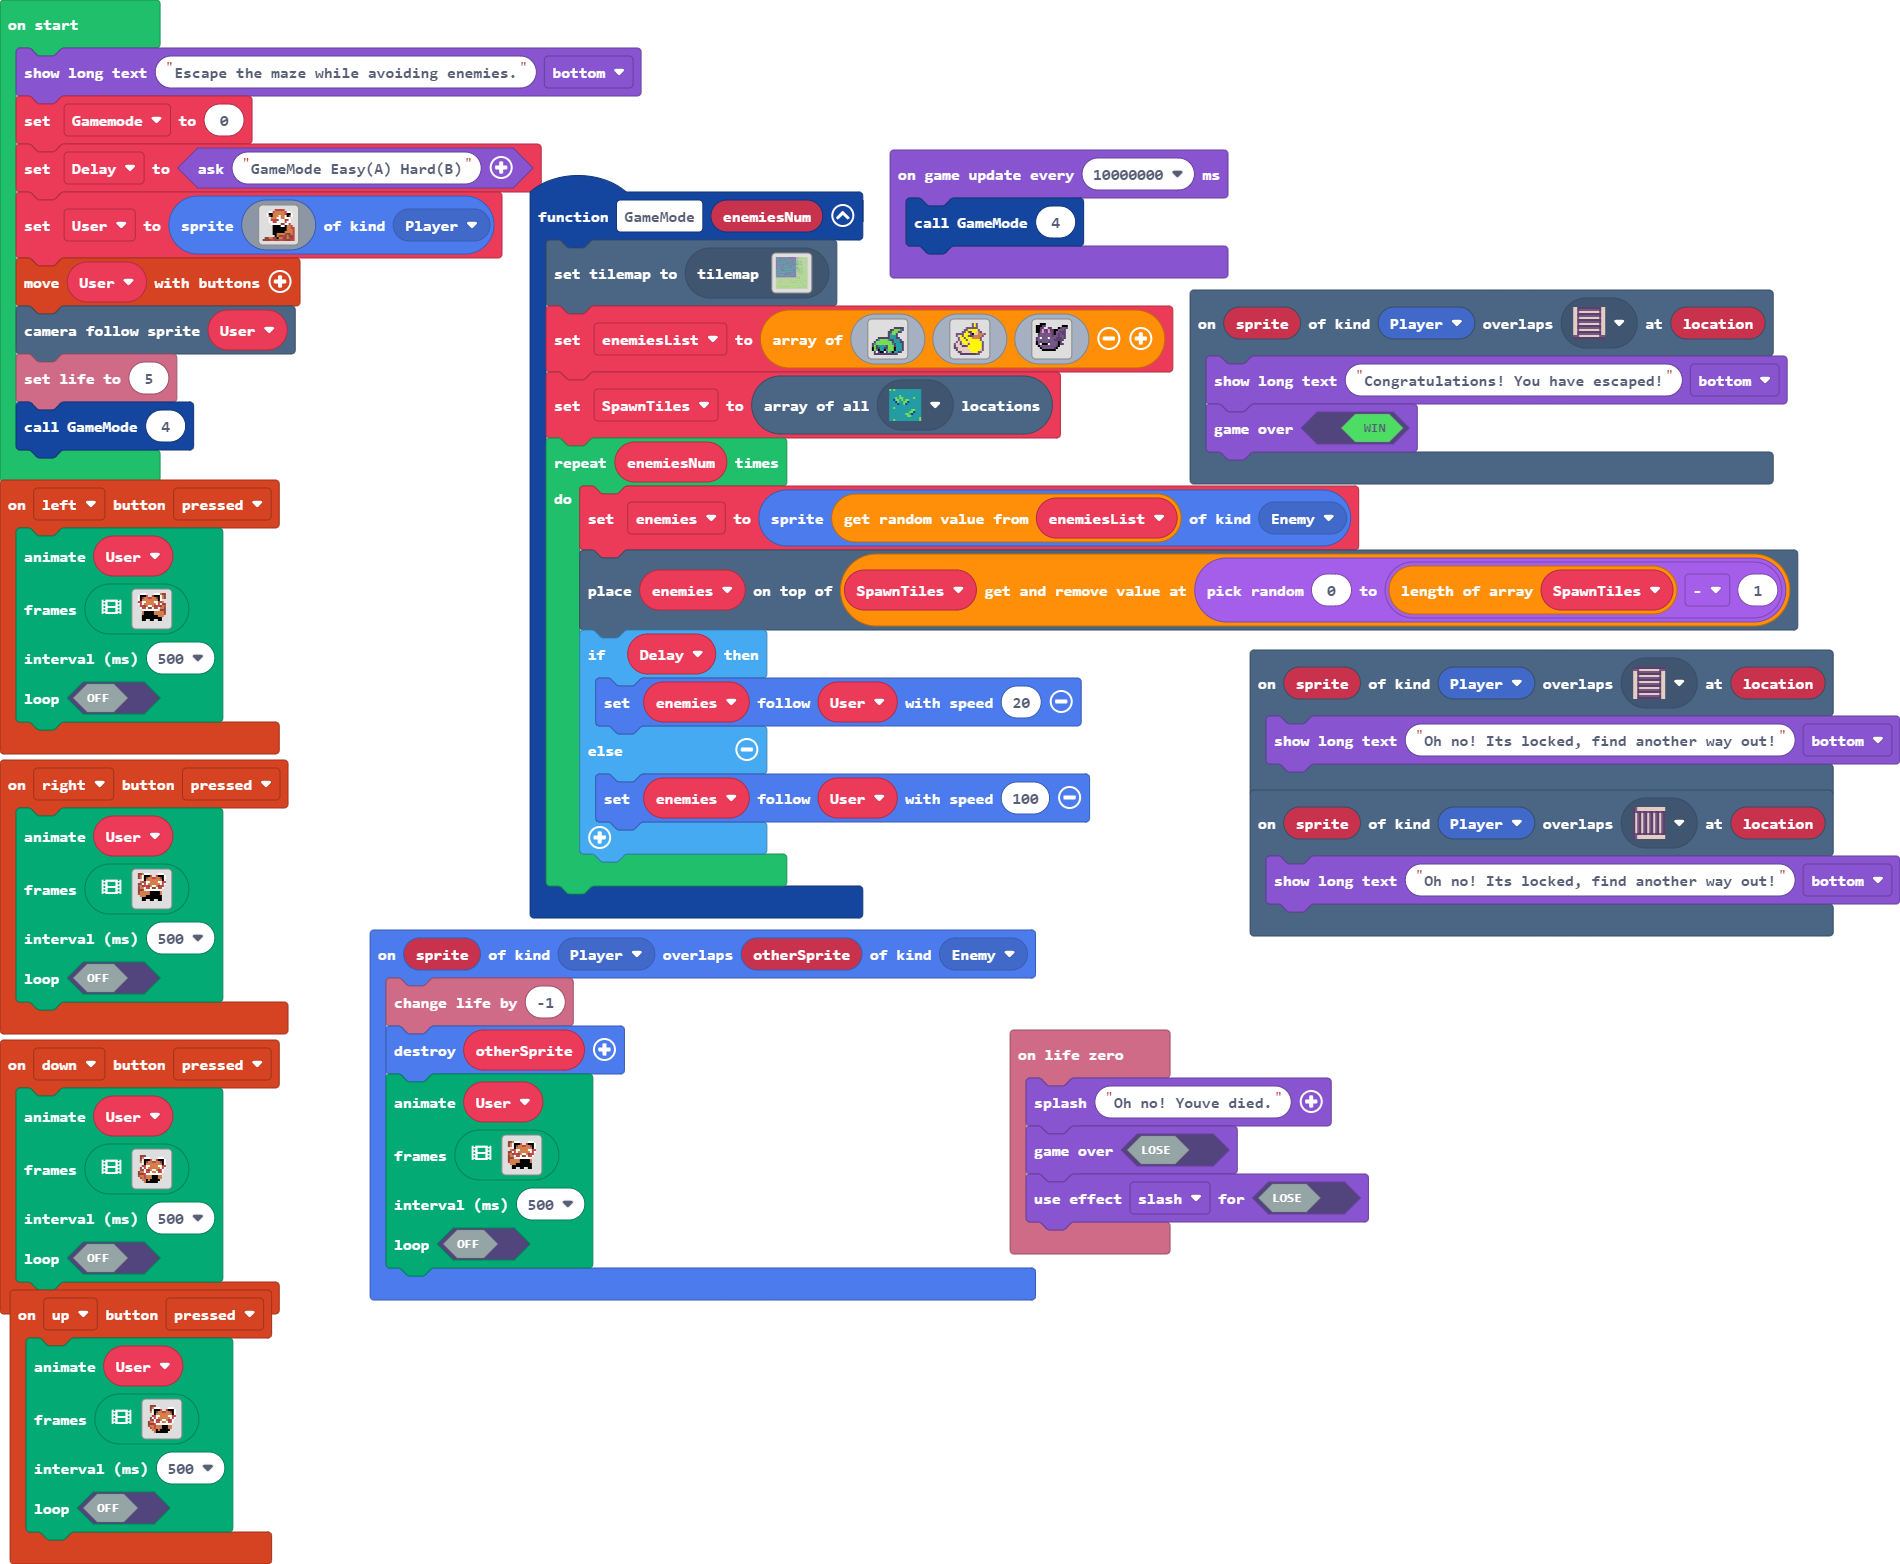
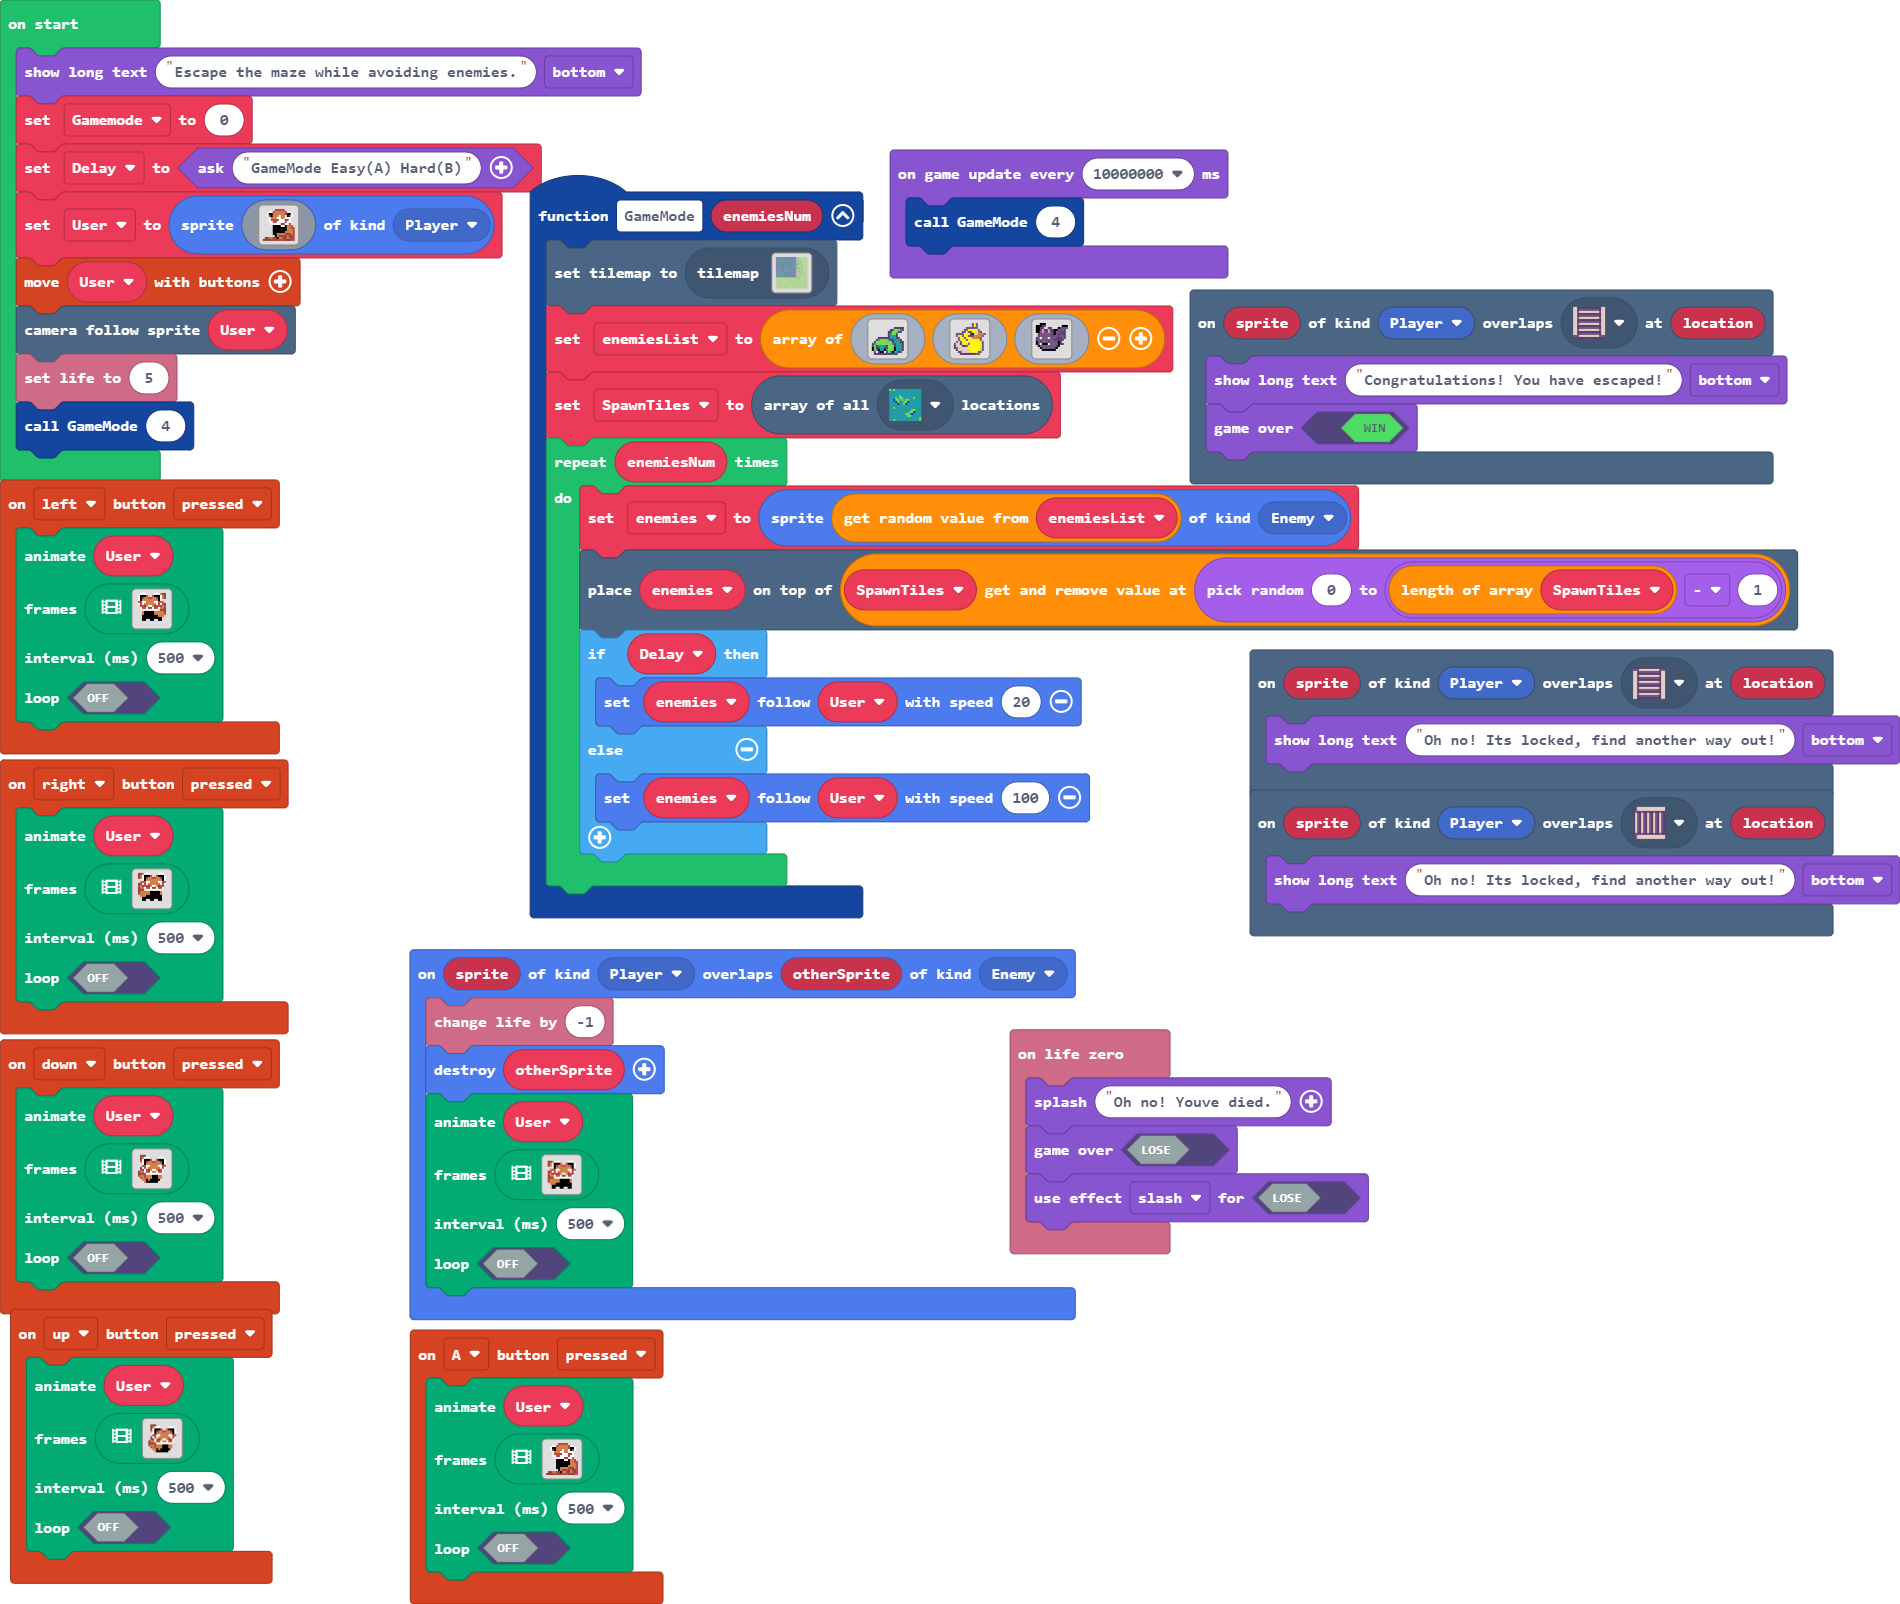
Update main.blocks, main.ts

Changed region(s): [[0.0, 0.0, 1.0, 1.0]]

diff --git a/main.ts b/main.ts
@@ -40,6 +40,31 @@ scene.onOverlapTile(SpriteKind.Player, sprites.dungeon.stairNorth, function (spr
     game.showLongText("Congratulations! You have escaped!", DialogLayout.Bottom)
     game.gameOver(true)
 })
+controller.A.onEvent(ControllerButtonEvent.Pressed, function () {
+    animation.runImageAnimation(
+    User,
+    [img`
+        . . . . . . 2 2 2 2 2 . . . . . 
+        . . . 1 1 2 4 4 4 4 4 2 1 1 . . 
+        . . 1 f f 4 4 4 4 4 4 2 f f 1 . 
+        . . 1 e f 4 4 4 1 4 4 1 f e 1 . 
+        . . . 1 4 4 4 1 1 4 4 1 1 1 . . 
+        . . . 1 2 2 2 e 1 1 1 e 2 1 . . 
+        . . . 1 1 2 2 1 1 1 1 2 1 1 . . 
+        . . . . 1 1 1 1 1 e e 1 1 2 . . 
+        . . . . . f f f f 1 1 f 4 4 2 . 
+        . . . . . f f f f f f f 4 4 2 2 
+        . . . . . f f f f f f f 4 4 4 2 
+        . . . . . f f f f f f 4 4 4 4 2 
+        . . . . . f f 4 4 4 4 2 e e 4 2 
+        . . . . . . f 4 e e 2 e 4 e e 2 
+        . e e 4 4 e e f 4 4 e e 4 2 e 2 
+        e e e e 2 2 e e 2 2 2 e e e 2 2 
+        `],
+    500,
+    false
+    )
+})
 controller.left.onEvent(ControllerButtonEvent.Pressed, function () {
     animation.runImageAnimation(
     User,
@@ -94,23 +119,6 @@ controller.left.onEvent(ControllerButtonEvent.Pressed, function () {
         . . . . . f f f f f f 4 . . . . 
         . . . . . . . . . . . . . . . . 
         . . . . . . . . . . . . . . . . 
-        `,img`
-        . . . . . . 2 2 2 2 2 . . . . . 
-        . . . 1 1 2 4 4 4 4 4 2 1 1 . . 
-        . . 1 f f 4 4 4 4 4 4 2 f f 1 . 
-        . . 1 e f 4 4 4 1 4 4 1 f e 1 . 
-        . . . 1 4 4 4 1 1 4 4 1 1 1 . . 
-        . . . 1 2 2 2 e 1 1 1 e 2 1 . . 
-        . . . 1 1 2 2 1 1 1 1 2 1 1 . . 
-        . . . . 1 1 1 1 1 e e 1 1 2 . . 
-        . . . . . f f f f 1 1 f 4 4 2 . 
-        . . . . . f f f f f f f 4 4 2 2 
-        . . . . . f f f f f f f 4 4 4 2 
-        . . . . . f f f f f f 4 4 4 4 2 
-        . . . . . f f 4 4 4 4 2 e e 4 2 
-        . . . . . . f 4 e e 2 e 4 e e 2 
-        . e e 4 4 e e f 4 4 e e 4 2 e 2 
-        e e e e 2 2 e e 2 2 2 e e e 2 2 
         `],
     500,
     false
@@ -170,23 +178,6 @@ controller.right.onEvent(ControllerButtonEvent.Pressed, function () {
         . . . . 4 f f f f f f . . . . . 
         . . . . . . . . . . . . . . . . 
         . . . . . . . . . . . . . . . . 
-        `,img`
-        . . . . . 2 2 2 2 2 . . . . . . 
-        . . 1 1 2 4 4 4 4 4 2 1 1 . . . 
-        . 1 f f 2 4 4 4 4 4 4 f f 1 . . 
-        . 1 e f 1 4 4 1 4 4 4 f e 1 . . 
-        . . 1 1 1 4 4 1 1 4 4 4 1 . . . 
-        . . 1 2 e 1 1 1 e 2 2 2 1 . . . 
-        . . 1 1 2 1 1 1 1 2 2 1 1 . . . 
-        . . 2 1 1 e e 1 1 1 1 1 . . . . 
-        . 2 4 4 f 1 1 f f f f . . . . . 
-        2 2 4 4 f f f f f f f . . . . . 
-        2 4 4 4 f f f f f f f . . . . . 
-        2 4 4 4 4 f f f f f f . . . . . 
-        2 4 e e 2 4 4 4 4 f f . . . . . 
-        2 e e 4 e 2 e e 4 f . . . . . . 
-        2 e 2 4 e e 4 4 f e e 4 4 e e . 
-        2 2 e e e 2 2 2 e e 2 2 e e e e 
         `],
     500,
     false
